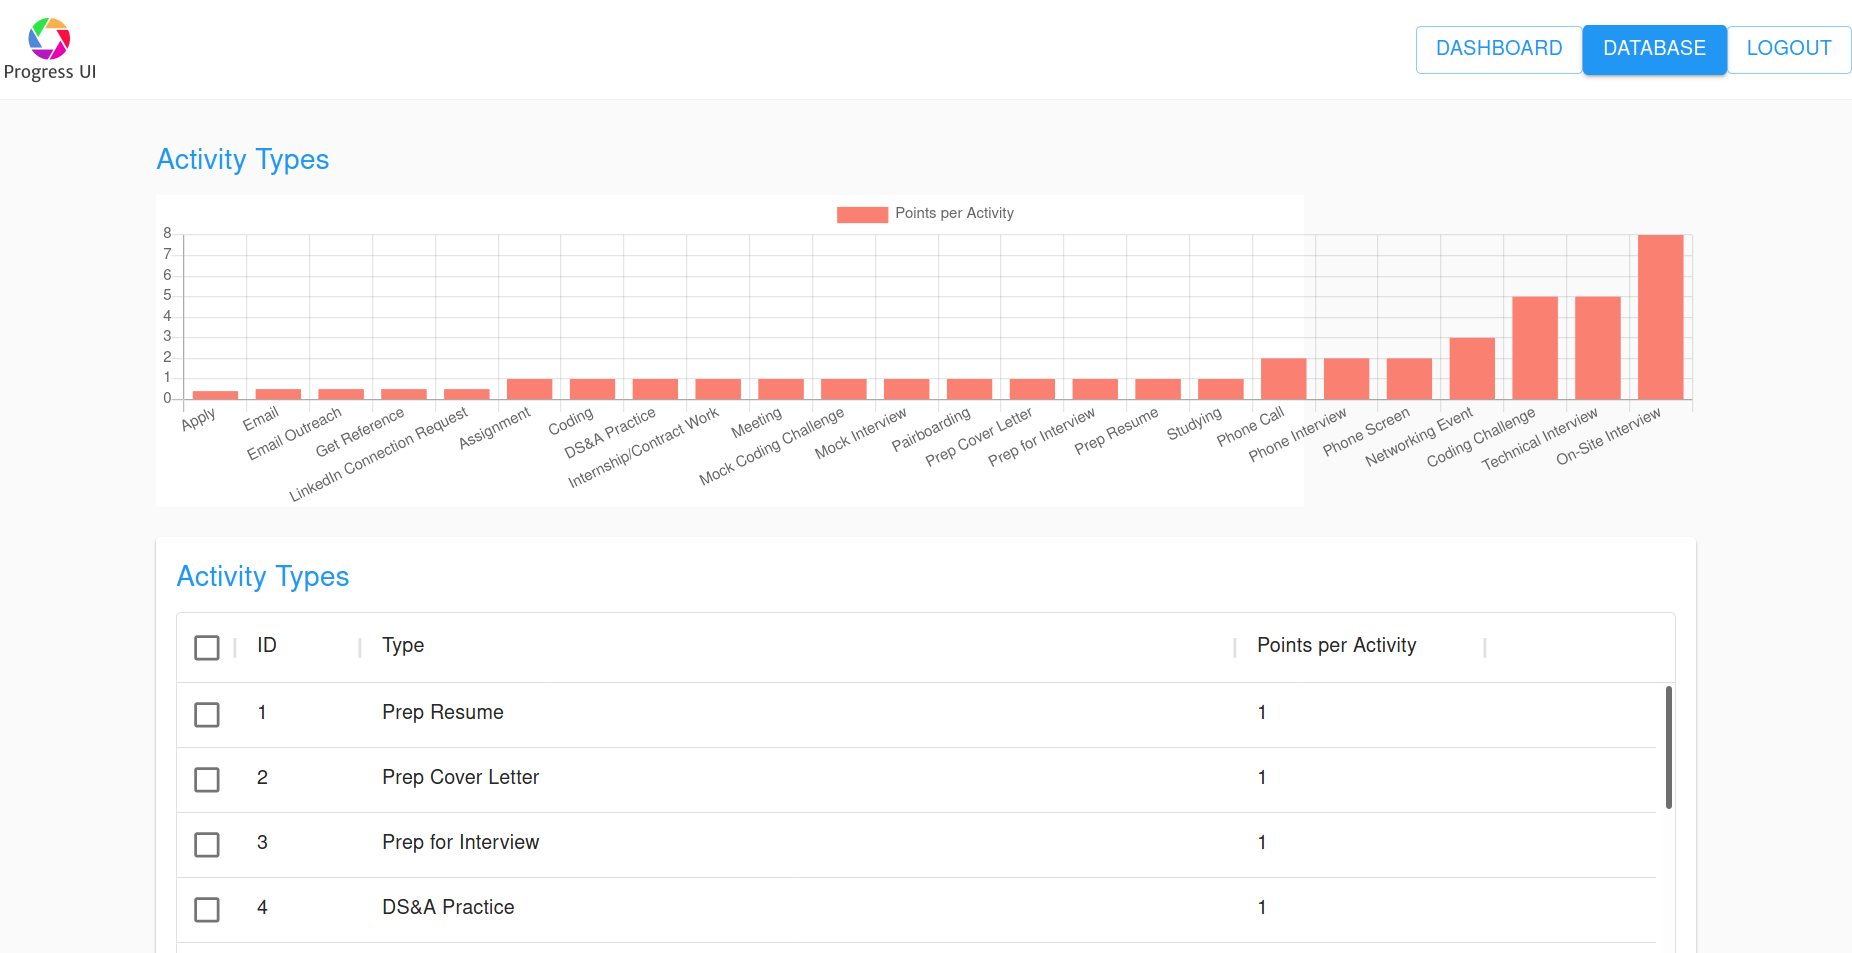
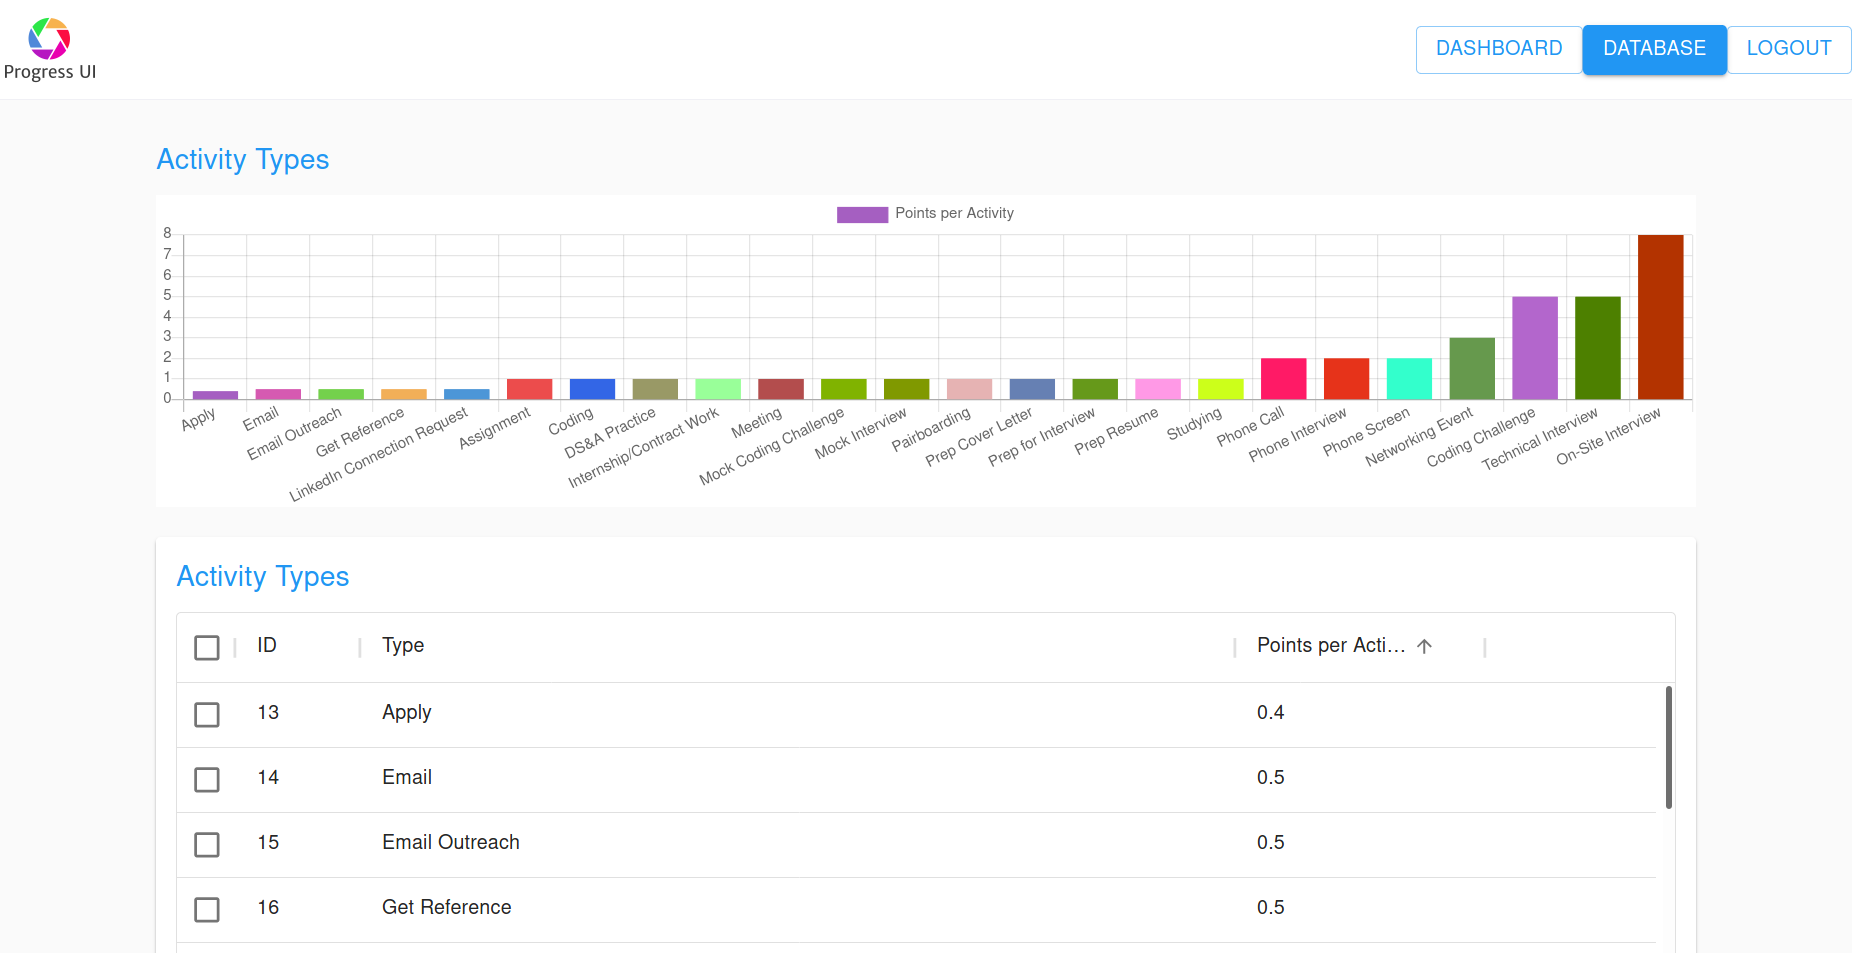
changed chart formatting

diff --git a/react-app/src/components/dashboard/JobChart.js b/react-app/src/components/dashboard/JobChart.js
@@ -1,5 +1,5 @@
 import React, { useState, useEffect } from 'react';
-import {Bar} from 'react-chartjs-2';
+import {Bar, HorizontalBar} from 'react-chartjs-2';
 import { Doughnut } from 'react-chartjs-2';
 
 
@@ -59,15 +59,57 @@ export const JobChart = ({groceries, screen})=> {
         setstockChartYValues(stockChartYValuesFunction)
         }
       }, [groceries]);
+    // const data = {
+    //   labels: stockChartXValues,
+    //   datasets: [
+    //     {
+    //       label: 'Total Points',
+    //       backgroundColor: 'salmon',
+    //       borderColor: 'salmon',
+    //       borderWidth: 1,
+    //       hoverBackgroundColor: 'rgba(255,99,132,0.4)',
+    //       hoverBorderColor: 'rgba(255,99,132,1)',
+    //       data: stockChartYValues
+    //     }
+    //   ]
+    // };
+
     const data = {
       labels: stockChartXValues,
       datasets: [
         {
           label: 'Total Points',
-          backgroundColor: 'salmon',
-          borderColor: 'salmon',
+          backgroundColor: ['#a55fc1', '#d65ab1', '#74d14c', '#f2af58', '#4c96d7', 
+          '#ec4c4c', '#3366E6', '#999966', '#99FF99', '#B34D4D',
+          '#80B300', '#809900', '#E6B3B3', '#6680B3', '#66991A', 
+          '#FF99E6', '#CCFF1A', '#FF1A66', '#E6331A', '#33FFCC',
+          '#66994D', '#B366CC', '#4D8000', '#B33300', '#CC80CC', 
+          '#66664D', '#991AFF', '#E666FF', '#4DB3FF', '#1AB399',
+          '#E666B3', '#33991A', '#CC9999', '#B3B31A', '#00E680', 
+          '#4D8066', '#809980', '#E6FF80', '#1AFF33', '#999933',
+          '#FF3380', '#CCCC00', '#66E64D', '#4D80CC', '#9900B3', 
+          '#E64D66', '#4DB380', '#FF4D4D', '#99E6E6', '#6666FF'],
+          borderColor: ['#a55fc1', '#d65ab1', '#74d14c', '#f2af58', '#4c96d7', 
+          '#ec4c4c', '#3366E6', '#999966', '#99FF99', '#B34D4D',
+          '#80B300', '#809900', '#E6B3B3', '#6680B3', '#66991A', 
+          '#FF99E6', '#CCFF1A', '#FF1A66', '#E6331A', '#33FFCC',
+          '#66994D', '#B366CC', '#4D8000', '#B33300', '#CC80CC', 
+          '#66664D', '#991AFF', '#E666FF', '#4DB3FF', '#1AB399',
+          '#E666B3', '#33991A', '#CC9999', '#B3B31A', '#00E680', 
+          '#4D8066', '#809980', '#E6FF80', '#1AFF33', '#999933',
+          '#FF3380', '#CCCC00', '#66E64D', '#4D80CC', '#9900B3', 
+          '#E64D66', '#4DB380', '#FF4D4D', '#99E6E6', '#6666FF'],
           borderWidth: 1,
-          hoverBackgroundColor: 'rgba(255,99,132,0.4)',
+          hoverBackgroundColor: ['#a55fc1', '#d65ab1', '#74d14c', '#f2af58', '#4c96d7', 
+          '#ec4c4c', '#3366E6', '#999966', '#99FF99', '#B34D4D',
+          '#80B300', '#809900', '#E6B3B3', '#6680B3', '#66991A', 
+          '#FF99E6', '#CCFF1A', '#FF1A66', '#E6331A', '#33FFCC',
+          '#66994D', '#B366CC', '#4D8000', '#B33300', '#CC80CC', 
+          '#66664D', '#991AFF', '#E666FF', '#4DB3FF', '#1AB399',
+          '#E666B3', '#33991A', '#CC9999', '#B3B31A', '#00E680', 
+          '#4D8066', '#809980', '#E6FF80', '#1AFF33', '#999933',
+          '#FF3380', '#CCCC00', '#66E64D', '#4D80CC', '#9900B3', 
+          '#E64D66', '#4DB380', '#FF4D4D', '#99E6E6', '#6666FF'],
           hoverBorderColor: 'rgba(255,99,132,1)',
           data: stockChartYValues
         }
@@ -154,7 +196,7 @@ const pieOptions= {
          <div>
       {screen === 'fridge'? 
         
-        <Bar
+        <HorizontalBar
           data={data}
           width={800}
           height={500}

diff --git a/react-app/src/components/dashboard/ChartDataBase.js b/react-app/src/components/dashboard/ChartDataBase.js
@@ -37,10 +37,37 @@ export default function ChartDataBase({types}) {
     datasets: [
       {
         label: 'Points per Activity',
-        backgroundColor: 'salmon',
-        borderColor: 'salmon',
+        backgroundColor: ['#a55fc1', '#d65ab1', '#74d14c', '#f2af58', '#4c96d7', 
+        '#ec4c4c', '#3366E6', '#999966', '#99FF99', '#B34D4D',
+        '#80B300', '#809900', '#E6B3B3', '#6680B3', '#66991A', 
+        '#FF99E6', '#CCFF1A', '#FF1A66', '#E6331A', '#33FFCC',
+        '#66994D', '#B366CC', '#4D8000', '#B33300', '#CC80CC', 
+        '#66664D', '#991AFF', '#E666FF', '#4DB3FF', '#1AB399',
+        '#E666B3', '#33991A', '#CC9999', '#B3B31A', '#00E680', 
+        '#4D8066', '#809980', '#E6FF80', '#1AFF33', '#999933',
+        '#FF3380', '#CCCC00', '#66E64D', '#4D80CC', '#9900B3', 
+        '#E64D66', '#4DB380', '#FF4D4D', '#99E6E6', '#6666FF'],
+        borderColor: ['#a55fc1', '#d65ab1', '#74d14c', '#f2af58', '#4c96d7', 
+        '#ec4c4c', '#3366E6', '#999966', '#99FF99', '#B34D4D',
+        '#80B300', '#809900', '#E6B3B3', '#6680B3', '#66991A', 
+        '#FF99E6', '#CCFF1A', '#FF1A66', '#E6331A', '#33FFCC',
+        '#66994D', '#B366CC', '#4D8000', '#B33300', '#CC80CC', 
+        '#66664D', '#991AFF', '#E666FF', '#4DB3FF', '#1AB399',
+        '#E666B3', '#33991A', '#CC9999', '#B3B31A', '#00E680', 
+        '#4D8066', '#809980', '#E6FF80', '#1AFF33', '#999933',
+        '#FF3380', '#CCCC00', '#66E64D', '#4D80CC', '#9900B3', 
+        '#E64D66', '#4DB380', '#FF4D4D', '#99E6E6', '#6666FF'],
         borderWidth: 1,
-        hoverBackgroundColor: 'rgba(255,99,132,0.4)',
+        hoverBackgroundColor: ['#a55fc1', '#d65ab1', '#74d14c', '#f2af58', '#4c96d7', 
+        '#ec4c4c', '#3366E6', '#999966', '#99FF99', '#B34D4D',
+        '#80B300', '#809900', '#E6B3B3', '#6680B3', '#66991A', 
+        '#FF99E6', '#CCFF1A', '#FF1A66', '#E6331A', '#33FFCC',
+        '#66994D', '#B366CC', '#4D8000', '#B33300', '#CC80CC', 
+        '#66664D', '#991AFF', '#E666FF', '#4DB3FF', '#1AB399',
+        '#E666B3', '#33991A', '#CC9999', '#B3B31A', '#00E680', 
+        '#4D8066', '#809980', '#E6FF80', '#1AFF33', '#999933',
+        '#FF3380', '#CCCC00', '#66E64D', '#4D80CC', '#9900B3', 
+        '#E64D66', '#4DB380', '#FF4D4D', '#99E6E6', '#6666FF'],
         hoverBorderColor: 'rgba(255,99,132,1)',
         data: stockChartYValues
       }

diff --git a/react-app/src/components/dashboard/User.js b/react-app/src/components/dashboard/User.js
@@ -184,7 +184,7 @@ export default function User() {
         <Container maxWidth="lg" className={classes.container}>
           <Grid container spacing={3}>
             {/* Chart */}
-            <Grid item xs={12} md={8} lg={9}>
+            <Grid item xs={12} >
               {/* <Paper className={fixedHeightPaper}> */}
               <Title>Activity Types</Title>
                 <ChartDataBase types={types}/>
